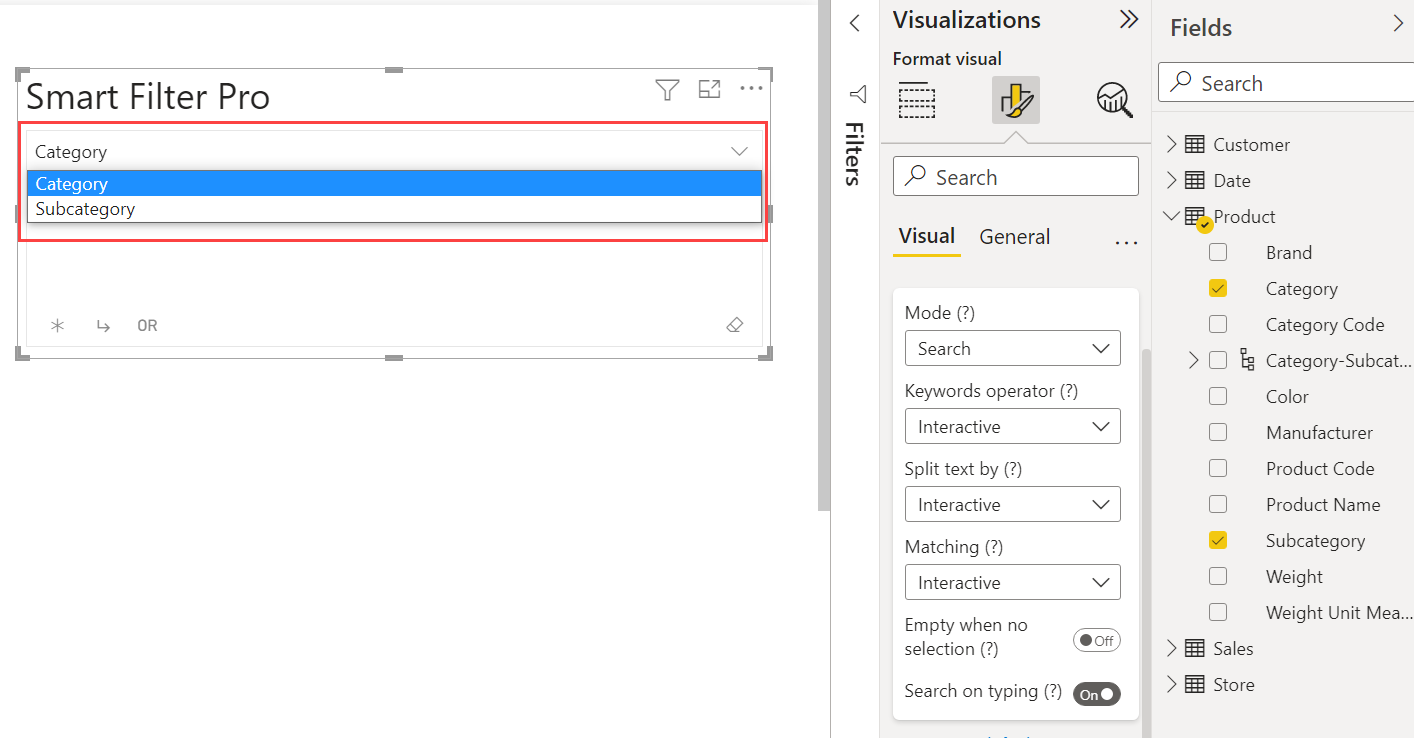
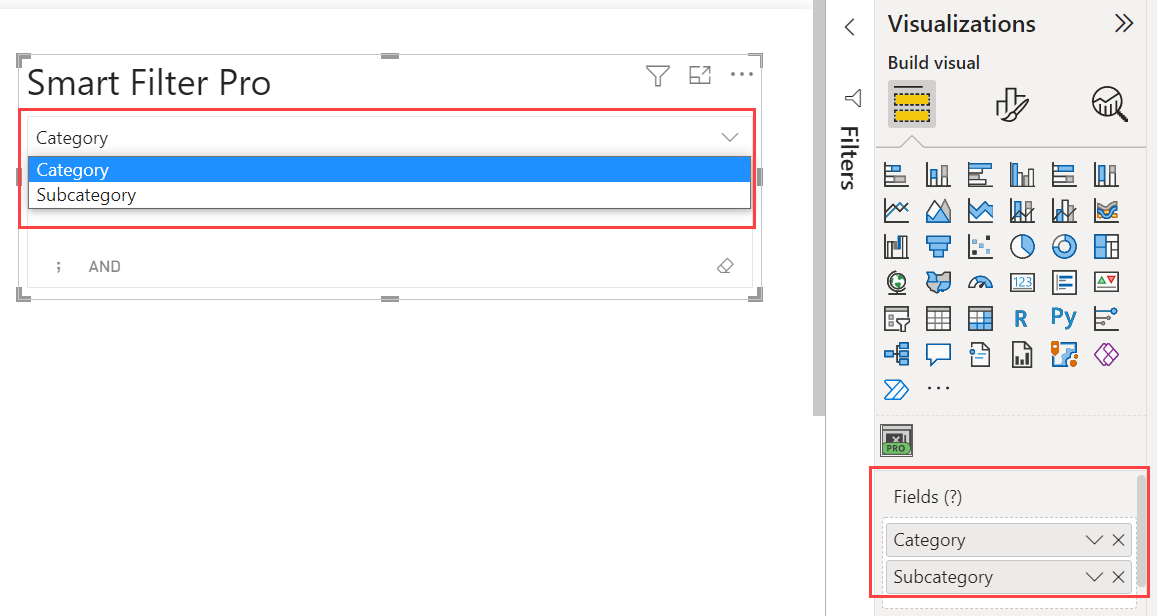
Search Mode SC with fields panel taken again

diff --git a/_docs/smart-filter-pro/mode/search.md b/_docs/smart-filter-pro/mode/search.md
@@ -15,9 +15,8 @@ Search mode is the simplified version of the [Filter mode](filter). This working
 
 The Search mode supports multiple fields, like the other modes, but only allows you to search for one field at a time. In case you connect multiple fields, a drop-down menu appears at the top of the visual from which you can select the field to search for.
 
-<img src="images/search-mode-manycategories.png" width="650">
+<img src="images/search-mode-manycategories.png" width="550">
 
-<todo assign="twinkle">Retake the screenshot with the fields panel side by side with visual</todo>
 
 ## How to Search
 
